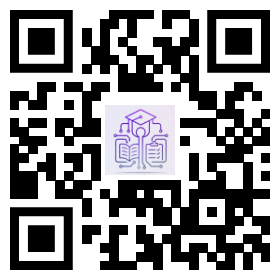
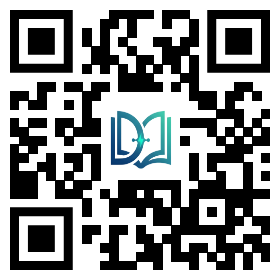
fix: resolve node types error and update footer qr code

Changed region(s): [[0.3714, 0.3714, 0.6286, 0.6286]]

diff --git a/src/App.tsx b/src/App.tsx
@@ -896,7 +896,7 @@ export default function App() {
           </p>
           <div className="flex justify-center mt-6">
             <img 
-              src="/favicon2.png" 
+              src="/pemuryadi_QRcode.png" 
               alt="QR Code Pemuryadi Generator" 
               className="w-24 h-24 object-contain rounded-lg shadow-sm border border-gray-200 bg-white p-1 hover:scale-110 transition-transform duration-300"
             />
